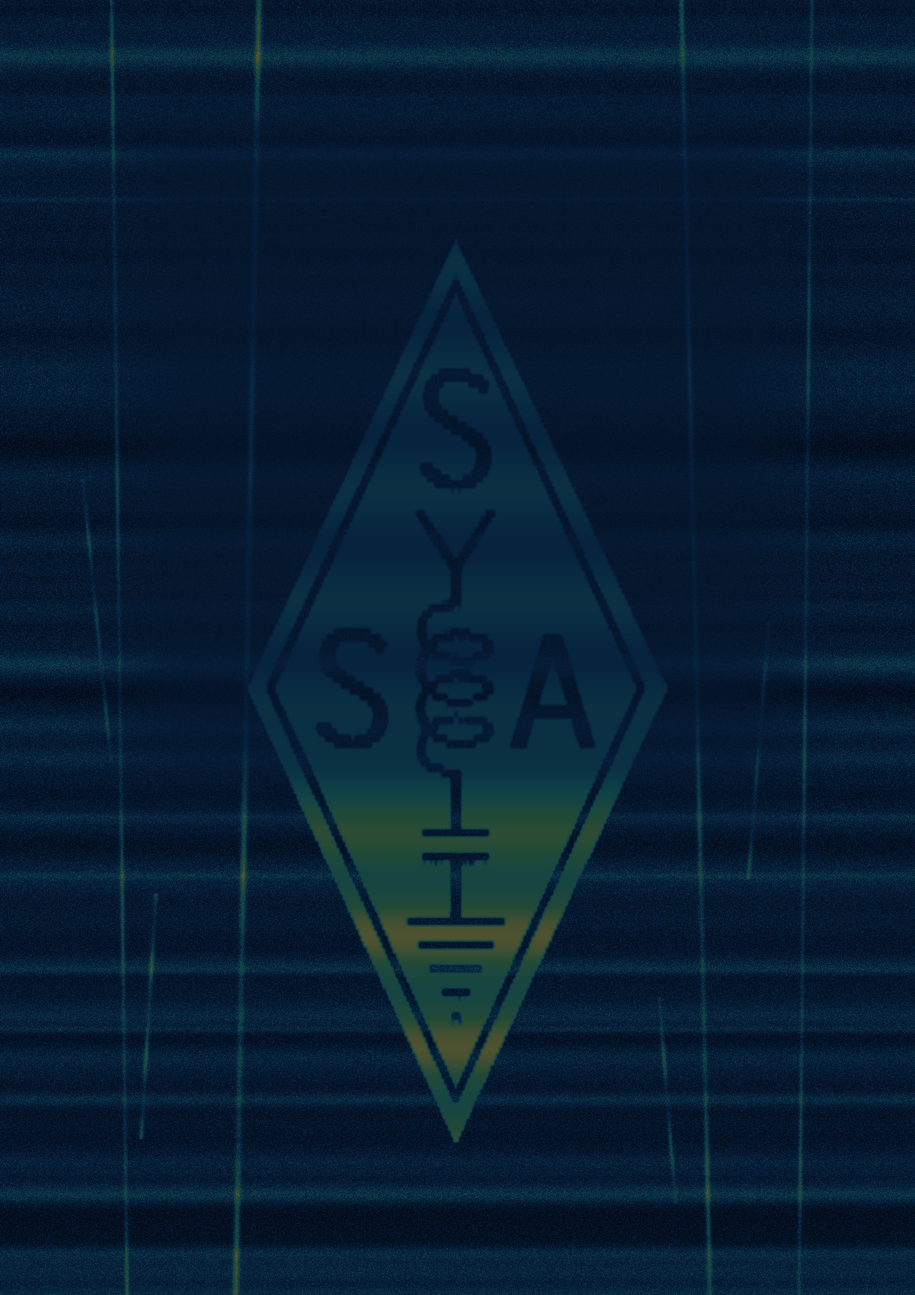
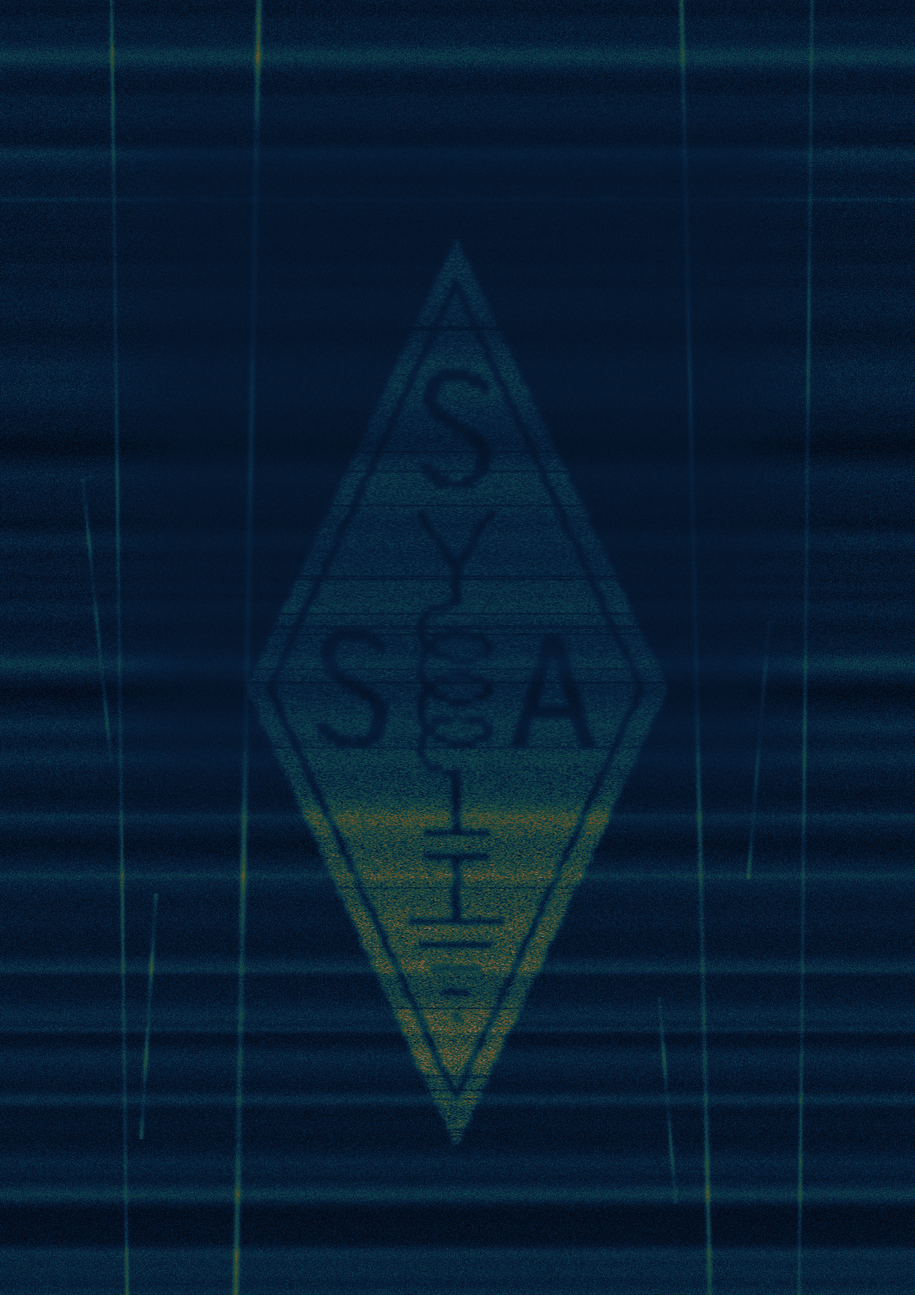
Integrera SSA-logotypen med Hellschreiber-störningar

Changed region(s): [[0.3371, 0.5849, 0.6742, 0.8928]]

diff --git a/images/generate_hellschreiber.py b/images/generate_hellschreiber.py
@@ -13,7 +13,7 @@ Run from the repository root:
 Requires: Pillow, numpy, pdftoppm (poppler-utils)
 """
 import numpy as np
-from PIL import Image, ImageFilter
+from PIL import Image
 import subprocess, os, tempfile
 
 _HERE     = os.path.dirname(os.path.abspath(__file__))
@@ -74,10 +74,27 @@ for x in range(W):
     col        = np.roll(logo_scaled[:, x], drifts[x])
     hell[:, x] = hell_col(col, DOT)
 
-# Slight vertical Gaussian blur (dot spread on the SDR screen pixels)
-hell_pil = Image.fromarray((hell*255).astype(np.uint8))
-hell_pil = hell_pil.filter(ImageFilter.GaussianBlur(radius=DOT * 0.22))  # gentle dot spread
-hell = np.array(hell_pil, dtype=np.float32) / 255.0
+# Soften the quantised dots (receiver bandwidth / SDR screen pixels). The blur
+# is applied *after* Hell quantisation so the 8 px dot cells stay recognisable
+# but their hard stair-stepped edges become smooth, anti-aliased transitions.
+def gaussian_blur_1d(img, sigma, axis):
+    """Separable Gaussian blur along one axis, edge-replicated."""
+    radius = int(np.ceil(sigma * 3))
+    k = np.exp(-0.5 * (np.arange(-radius, radius + 1) / sigma) ** 2)
+    k /= k.sum()
+    pad = [(0, 0), (0, 0)]
+    pad[axis] = (radius, radius)
+    padded = np.pad(img, pad, mode="edge")
+    out = np.zeros_like(img)
+    for i, w in enumerate(k):
+        out += w * (padded[i:i + img.shape[0], :] if axis == 0
+                    else padded[:, i:i + img.shape[1]])
+    return out
+
+HELL_BLUR_Y = DOT * 0.38   # ~3.0 px: rounds the dot-cell steps
+HELL_BLUR_X = DOT * 0.34   # ~2.7 px: softens left/right logo edges
+hell = gaussian_blur_1d(hell, HELL_BLUR_Y, axis=0)
+hell = gaussian_blur_1d(hell, HELL_BLUR_X, axis=1)
 
 # 4 ── Build an SDR waterfall with visible noise and time history ─────────────
 # A waterfall advances one horizontal scan at a time: random noise changes on
@@ -145,13 +162,55 @@ canvas = np.clip(canvas, 0, 1)
 x_off = (PAGE_W - W) // 2
 y_off = (PAGE_H - H) // 2 + int(PAGE_H * 0.035)
 
-# The logo is itself a Hell scan. Let the underlying waterfall remain visible
-# in its gaps and vary its level slightly from scan to scan.
-logo_history = 0.83 + 0.10 * np.sin(
-    np.arange(H, dtype=np.float32)[:, None] / 24.0)
-logo_signal = hell * logo_history * 0.84
-canvas[y_off:y_off + H, x_off:x_off + W] = np.maximum(
-    canvas[y_off:y_off + H, x_off:x_off + W], logo_signal)
+# The logo is itself a received Hell scan, so it must suffer the same radio
+# conditions as the waterfall behind it instead of sitting on top as a clean
+# stencil. Everything below is derived from the same noise/sweep history.
+bg = canvas[y_off:y_off + H, x_off:x_off + W]      # waterfall under the logo
+bg_dev = bg - NOISE_FLOOR                           # shared noise + sweeps
+rows_bg = bg_dev.mean(axis=1)                       # per-scan level history
+
+# (a) Scan-to-scan timing variation: slowly wandering horizontal shift per
+#     scan line (smoothed noise), applied to the logo coverage.
+shift_noise = np.random.normal(0, 1, H)
+shift_kernel_x = np.arange(-12, 13, dtype=np.float32)
+shift_kernel = np.exp(-0.5 * (shift_kernel_x / 4.0) ** 2)
+shift_kernel /= shift_kernel.sum()
+shift = np.convolve(shift_noise, shift_kernel, mode="same")
+shift = np.rint(shift / shift.std() * 0.9).astype(int)   # about +-1-2 px
+cover = np.empty_like(hell)
+for y in range(H):
+    cover[y] = np.roll(hell[y], shift[y])
+
+# (b) Receiver ringing: a short one-sided smear along the scan direction.
+tail = np.exp(-np.arange(0, 5, dtype=np.float32) / 1.8)
+tail /= tail.sum()
+smeared = np.zeros_like(cover)
+for i, w in enumerate(tail):
+    smeared[:, i:] += w * cover[:, :W - i]
+cover = 0.75 * cover + 0.25 * smeared
+
+# (c) Signal strength follows the same level history as the waterfall rows
+#     (fading and sweeps), plus occasional short partial dropouts.
+gain = 0.86 + 0.10 * np.sin(np.arange(H, dtype=np.float32)[:, None] / 24.0)
+gain = gain + rows_bg[:, None] * 0.8
+dropout_rows = np.random.rand(H) < 0.02
+dropout_rows = np.convolve(dropout_rows.astype(np.float32),
+                           np.ones(3, dtype=np.float32), mode="same") > 0
+dropout_depth = np.where(dropout_rows, np.random.uniform(0.60, 0.85, H), 1.0)
+gain = gain * dropout_depth[:, None]
+
+# (d) Per-pixel receiver noise: the waterfall's own noise is carried into the
+#     logo, with extra multiplicative grain so the logo is not a flat colour.
+grain = np.random.normal(0, 1, (H, W)).astype(np.float32)
+grain = gaussian_blur_1d(grain, 0.8, axis=1) * 1.6
+inside = (0.72 * gain * (1.0 + 0.16 * grain)
+          + bg_dev * 0.6 + 0.03 * grain)
+
+# Alpha-composite with the blurred, jittered coverage so edges pick up the
+# surrounding noise as well.
+cover = np.clip(cover, 0.0, 1.0)
+canvas[y_off:y_off + H, x_off:x_off + W] = np.clip(
+    bg * (1.0 - cover) + inside * cover, 0.0, 1.0)
 
 # Keep the central title area quiet and dark for the white lettering; the
 # noise remains visible, while strong carriers and sweeps are softened there.

diff --git a/CHANGELOG.md b/CHANGELOG.md
@@ -6,7 +6,7 @@ och följer [semantisk versionshantering](https://semver.org/lang/sv/spec/v2.0.0
 
 ## [Osläppt] – 2025
 ### Tillagt
-- Ny framsida med Hellschreiber-bakgrund föreställande SSA:s logotyp, med tydligt brusgolv, horisontella vattenfallssvep och varierade radiosignaler; mörkare partier bevarar den vita omslagstextens läsbarhet.
+- Ny framsida med Hellschreiber-bakgrund föreställande SSA:s logotyp, med tydligt brusgolv, horisontella vattenfallssvep och varierade radiosignaler; logotypens kanter är mjukare och logotypen påverkas av samma radiobrus, störningar och skanningsvariation som vattenfallet; mörkare partier bevarar den vita omslagstextens läsbarhet.
 - Ny figur för schemasymbolen lysdiod.
 - Nya introduktioner till kapitlen Ellära, Komponenter, Kretsar, Sändare och Trafikreglemente.
 - Ny figur för ICNIRPcalc.
